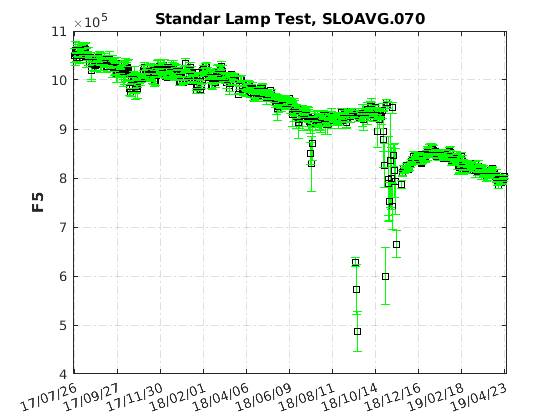
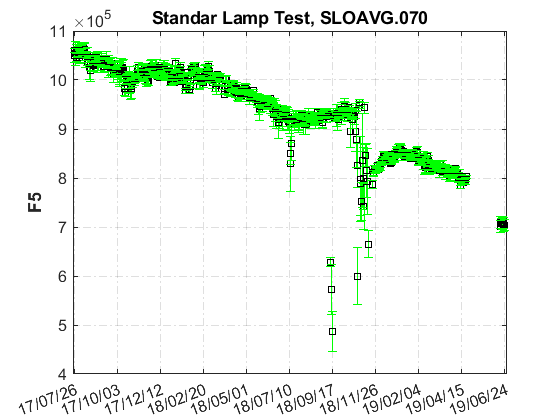
added cal_report_070a1.html

diff --git a/latex/070/html/cal_report_070a1.html b/latex/070/html/cal_report_070a1.html
@@ -6,7 +6,7 @@
    <!--
 This HTML was auto-generated from MATLAB code.
 To make changes, update the MATLAB code and republish this document.
-      --><title>cal_report_070a1</title><meta name="generator" content="MATLAB 9.4"><link rel="schema.DC" href="http://purl.org/dc/elements/1.1/"><meta name="DC.date" content="2019-06-21"><meta name="DC.source" content="cal_report_070a1.m"><style type="text/css">
+      --><title>cal_report_070a1</title><meta name="generator" content="MATLAB 9.4"><link rel="schema.DC" href="http://purl.org/dc/elements/1.1/"><meta name="DC.date" content="2019-06-26"><meta name="DC.source" content="cal_report_070a1.m"><style type="text/css">
 html,body,div,span,applet,object,iframe,h1,h2,h3,h4,h5,h6,p,blockquote,pre,a,abbr,acronym,address,big,cite,code,del,dfn,em,font,img,ins,kbd,q,s,samp,small,strike,strong,sub,sup,tt,var,b,u,i,center,dl,dt,dd,ol,ul,li,fieldset,form,label,legend,table,caption,tbody,tfoot,thead,tr,th,td{margin:0;padding:0;border:0;outline:0;font-size:100%;vertical-align:baseline;background:transparent}body{line-height:1}ol,ul{list-style:none}blockquote,q{quotes:none}blockquote:before,blockquote:after,q:before,q:after{content:'';content:none}:focus{outine:0}ins{text-decoration:none}del{text-decoration:line-through}table{border-collapse:collapse;border-spacing:0}
 
 html { min-height:100%; margin-bottom:1px; }
@@ -83,33 +83,20 @@ mkdir(Cal.dir_figs);
       fprintf(<span class="string">'Error: %s\n Initializing data for Brewer %s\n'</span>,exception.message,Cal.brw_name{Cal.n_inst});
       save(Cal.file_save);
 <span class="keyword">end</span>
-</pre><pre class="codeoutput">
-ans =
-
+</pre><pre class="codeoutput">ans =
   logical
-
    1
-
-
 ans =
-
   1&times;1 cell array
-
     {'IZO#185'}
-
-
 ans =
-
-  21&times;9 cell array
-
+  20&times;9 cell array
   Columns 1 through 5
-
     {'TSK#005'}    {[  5]}    {[2]}    {[0]}    {'005'}
     {'IOS#017'}    {[ 17]}    {[2]}    {[0]}    {'017'}
     {'SCO#033'}    {[ 33]}    {[2]}    {[0]}    {'033'}
     {'MAD#070'}    {[ 70]}    {[4]}    {[0]}    {'070'}
     {'UK_#075'}    {[ 75]}    {[4]}    {[0]}    {'075'}
-    {'POR#102'}    {[102]}    {[4]}    {[0]}    {'102'}
     {'MUR#117'}    {[117]}    {[4]}    {[0]}    {'117'}
     {'UK_#126'}    {[126]}    {[4]}    {[0]}    {'126'}
     {'ARE#150'}    {[150]}    {[3]}    {[0]}    {'150'}
@@ -125,31 +112,30 @@ ans =
     {'TAM#201'}    {[201]}    {[3]}    {[0]}    {'201'}
     {'DNK#202'}    {[202]}    {[3]}    {[0]}    {'202'}
     {'DNK#228'}    {[228]}    {[3]}    {[0]}    {'228'}
-
   Columns 6 through 9
-
     {'..\005\ICF15117&#8230;'}    {'..\005\ICF15117&#8230;'}    {'1838'}    {'1838'}
-    {'..\017\ICF15315&#8230;'}    {'..\017\ICF15315&#8230;'}    {'2170'}    {'2097'}
+    {'..\017\ICF14919&#8230;'}    {'..\017\ICF14919&#8230;'}    {'1680'}    {'1680'}
     {'..\033\ICF15617&#8230;'}    {'..\033\IOS15617&#8230;'}    {'2325'}    {'2325'}
     {'..\070\ICF15617&#8230;'}    {'..\070\IOS15617&#8230;'}    {'1685'}    {'1685'}
     {'..\075\ICF15017&#8230;'}    {'..\075\ICF15017&#8230;'}    {'1714'}    {'1714'}
-    {'..\102\ICF15517&#8230;'}    {'..\102\ICF15517&#8230;'}    {'2718'}    {'2718'}
     {'..\117\ICF15517&#8230;'}    {'..\117\IOS15517&#8230;'}    {'1620'}    {'1620'}
-    {'..\126\icf15517&#8230;'}    {'..\126\ICF15517&#8230;'}    {'1710'}    {'1710'}
+    {'..\126\icf15517&#8230;'}    {'..\126\ICF17419&#8230;'}    {'1710'}    {'1710'}
     {'..\150\ICF15617&#8230;'}    {'..\150\ICF15617&#8230;'}    {'0322'}    {'0322'}
     {'..\151\ICF15317&#8230;'}    {'..\151\IOS15317&#8230;'}    {'1880'}    {'1880'}
     {'..\158\ICF21218&#8230;'}    {'..\158\ICF21218&#8230;'}    {'0558'}    {'0558'}
-    {'..\163\ICF20118&#8230;'}    {'..\163\ICF20118&#8230;'}    {'0274'}    {'0274'}
-    {'..\166\ICF15217&#8230;'}    {'..\166\IOS15717&#8230;'}    {'1955'}    {'1955'}
+    {'..\163\ICF21018&#8230;'}    {'..\163\ICF17519&#8230;'}    {'0274'}    {'0274'}
+    {'..\166\ICF15217&#8230;'}    {'..\166\ICF17419&#8230;'}    {'1955'}    {'1955'}
     {'..\172\ICF15117&#8230;'}    {'..\172\ICF15117&#8230;'}    {'0444'}    {'0444'}
     {'..\174\ICF20718&#8230;'}    {'..\174\ICF20718&#8230;'}    {'0605'}    {'0605'}
-    {'..\185\config18&#8230;'}    {'..\185\config18&#8230;'}    {'0365'}    {'0363'}
+    {'..\185\config18&#8230;'}    {'..\185\config18&#8230;'}    {'0365'}    {'0367'}
     {'..\186\ICF15317&#8230;'}    {'..\186\IOS15317&#8230;'}    {'0315'}    {'0315'}
     {'..\190\ICF11419&#8230;'}    {'..\190\ICF11419&#8230;'}    {'0410'}    {'0410'}
     {'..\201\ICF14315&#8230;'}    {'..\201\ICF14315&#8230;'}    {'0320'}    {'0320'}
     {'..\202\ICF15017&#8230;'}    {'..\202\ICF15017&#8230;'}    {'0270'}    {'0270'}
-    {'..\228\ICF15017&#8230;'}    {'..\228\ICF15017&#8230;'}    {'0242'}    {'0242'}
-
+    {'..\228\ICF15017&#8230;'}    {'..\228\ICF17319&#8230;'}    {'0242'}    {'0242'}
+-&gt;ERROR
+     2
+~/CODE/campaigns/are2019/bfiles/163/../163/ICF17519.163
 </pre><h2 id="3">Brewer setup</h2><pre class="codeinput">Station.OSC=680;
 Station.name=<span class="string">''</span>;
 Station.lat=67;
@@ -187,14 +173,10 @@ latexcmd(fullfile(Cal.file_latex,[<span class="string">'cal_config_'</span>,Cal.
                      DTdef,<span class="string">'\ETCdef'</span>,ETCdef(1),<span class="string">'\Adef'</span>,A1def(1),<span class="keyword">...</span>
                      DTorig,<span class="string">'\ETCorig'</span>,ETCorig(1),<span class="string">'\Aorig'</span>,A1orig(1));
 </pre><pre class="codeinput">makeHtml_Table([config_orig,config_def],[],cellstr(leg),[Cal.brw_config_files(Cal.n_inst,1),Cal.brw_config_files(Cal.n_inst,2)])
-</pre><pre class="codeoutput">
-ans =
-
+</pre><pre class="codeoutput">ans =
   52&times;2 table
-
                            x__CODE_campaigns_are2019_bfiles_070____070_ICF15617_070    x__CODE_campaigns_are2019_bfiles_070____070_IOS15617_070
                            ________________________________________________________    ________________________________________________________
-
     ReleaseDate                                   7.3614e+05                                                  7.3614e+05                       
     o3TempCoef1                                            0                                                           0                       
     o3TempCoef2                                        -0.79                                                     -0.4009                       
@@ -247,7 +229,6 @@ ans =
     uvFW_2Pos                                             64                                                          64                       
     ZenithOffset                                          56                                                          56                       
     ZenithUVBPosition                                   2216                                                        2216                       
-
 </pre><pre class="codeinput"><span class="keyword">catch</span> exception
       fprintf(<span class="string">'%s, brewer: %s\n'</span>,exception.message,Cal.brw_name{Cal.n_inst});
       DTorig=NaN; DTdef=NaN;
@@ -309,33 +290,17 @@ save(Cal.file_save,<span class="string">'-APPEND'</span>,<span class="string">'a
 List of arguments given default values:
    'path_to_file'    defaults to .
 --------------------------------------
-23-Apr-2019
-
 RseisAVG =
-
-        1691
-
-
+        1674
 RcincoAVG =
-
-        3091
-
-
-DTAVG =
-
-    '4.1e-08'
-
+        3065
 
   Columns 1 through 5
-
     'SLR6  orig'    'Calc. AVG'    'SLR5  orig'    'Calculated'    'DT  orig'
-    [      1685]    [     1691]    [       NaN]    [      3091]    [ 4.1e-08]
-
+    [      1685]    [     1674]    [       NaN]    [      3065]    [ 4.1e-08]
   Column 6
-
     'Calculated'
-    [   4.1e-08]
-
+    [     4e-08]
 
 </pre><img vspace="5" hspace="5" src="cal_report_070a1_01.png" alt=""> <img vspace="5" hspace="5" src="cal_report_070a1_02.png" alt=""> <img vspace="5" hspace="5" src="cal_report_070a1_03.png" alt=""> <img vspace="5" hspace="5" src="cal_report_070a1_04.png" alt=""> <img vspace="5" hspace="5" src="cal_report_070a1_05.png" alt=""> <img vspace="5" hspace="5" src="cal_report_070a1_06.png" alt=""> <img vspace="5" hspace="5" src="cal_report_070a1_07.png" alt=""> <img vspace="5" hspace="5" src="cal_report_070a1_08.png" alt=""> <img vspace="5" hspace="5" src="cal_report_070a1_09.png" alt=""> <img vspace="5" hspace="5" src="cal_report_070a1_10.png" alt=""> <pre class="codeinput">ix=sort(double(findobj(<span class="string">'Type'</span>,<span class="string">'figure'</span>)));
 printfiles_report(ix',Cal.dir_figs);
